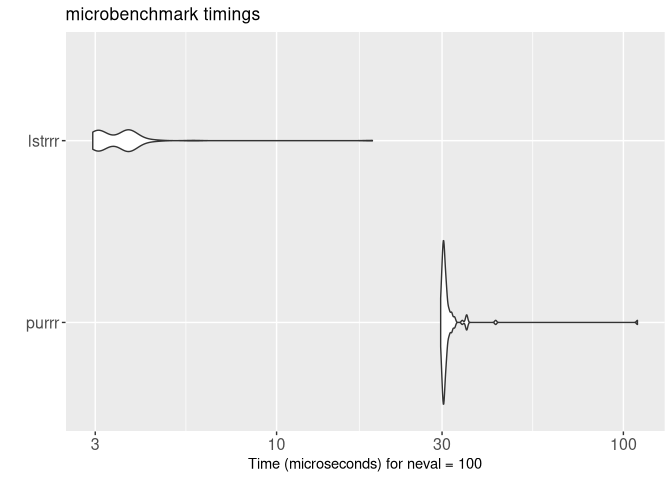
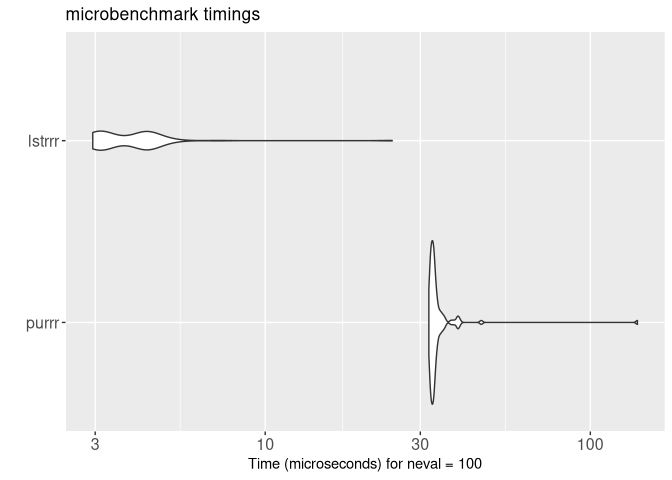
Update repo status

diff --git a/vignettes/benchmark_with_purrr.md b/vignettes/benchmark_with_purrr.md
@@ -1,4 +1,5 @@
     library(lstrrr)
+    data(sputnik_1)
 
 ## Map & Walk
 
@@ -28,27 +29,39 @@ difference of `lstrrr`.
     set.seed(123)
 
     bench_map <- microbenchmark::microbenchmark(
-      purrr = {
+      purrr_10 = {
         purrr::walk(files, \(x) slow_string_op(x))
       },
-      lstrrr = {
+      lstrrr_10 = {
         list_walk(files_list, \(x) slow_string_op(x))
+      },
+      purrr_50 = {
+        purrr::walk(files, \(x) slow_string_op(x, n = 50))
+      },
+      lstrrr_50 = {
+        list_walk(files_list, \(x) slow_string_op(x, n = 50))
+      },
+      purrr_100 = {
+        purrr::walk(files, \(x) slow_string_op(x, n = 100))
+      },
+      lstrrr_100 = {
+        list_walk(files_list, \(x) slow_string_op(x, n = 100))
       }
     )
     print(bench_map)
     #> Unit: milliseconds
-    #>    expr      min       lq     mean   median       uq       max neval
-    #>   purrr 2.987354 3.009674 3.079363 3.063402 3.141364  3.323898   100
-    #>  lstrrr 2.939991 2.973108 3.171761 3.025581 3.091127 16.854858   100
+    #>        expr       min        lq      mean    median        uq        max neval
+    #>    purrr_10  3.030297  3.091402  3.368821  3.112378  3.151750  15.287408   100
+    #>   lstrrr_10  2.953515  2.996233  3.025710  3.024970  3.047822   3.143753   100
+    #>    purrr_50 14.325471 14.485442 15.228383 14.598793 14.769506  27.229413   100
+    #>   lstrrr_50 14.233452 14.372943 15.108003 14.494130 14.615348  27.183190   100
+    #>   purrr_100 28.406875 28.751552 29.815807 28.959810 29.233874  41.509325   100
+    #>  lstrrr_100 28.361244 28.641291 31.515401 28.832363 29.113798 232.888763   100
 
     ggplot2::autoplot(bench_map) +
       ggplot2::theme(axis.text = ggplot2::element_text(size = 12))
 
 ![](benchmark_with_purrr_files/figure-markdown_strict/viz_map-1.png)
-
-I basically use C to implement the `map` like functions. However, the
-progress bar implemented on the C side cannot faithfully reproduce the
-progress bar from the `cli` package.
 
 ## Detect Depth
 
@@ -65,8 +78,8 @@ progress bar from the `cli` package.
     print(bench_depth)
     #> Unit: microseconds
     #>    expr      min       lq       mean    median       uq       max neval
-    #>   purrr 7211.146 7259.725 7563.13417 7298.2635 7569.488 12156.007   100
-    #>  lstrrr    4.101    4.871    7.40929    8.5975    9.328    17.065   100
+    #>   purrr 7296.421 7419.271 7837.80179 7711.7020 7784.662 12437.158   100
+    #>  lstrrr    4.046    4.935    7.86758    8.8935    9.759    17.014   100
 
     ggplot2::autoplot(bench_depth) +
       ggplot2::theme(axis.text = ggplot2::element_text(size = 12))
@@ -87,9 +100,9 @@ progress bar from the `cli` package.
     )
     print(bench_assign)
     #> Unit: microseconds
-    #>    expr    min      lq     mean median      uq     max neval
-    #>   purrr 29.723 30.2075 31.72399 30.426 30.9415 109.790   100
-    #>  lstrrr  2.951  3.0705  3.63453  3.618  3.7400  18.889   100
+    #>    expr    min     lq     mean  median      uq     max neval
+    #>   purrr 31.869 32.361 34.53122 32.8930 33.6135 139.616   100
+    #>  lstrrr  2.949  3.115  4.00796  3.8315  4.3260  24.577   100
 
     ggplot2::autoplot(bench_assign) +
       ggplot2::theme(axis.text = ggplot2::element_text(size = 12))
@@ -110,9 +123,9 @@ progress bar from the `cli` package.
     )
     print(bench_modify)
     #> Unit: microseconds
-    #>    expr    min      lq     mean median      uq     max neval
-    #>   purrr 51.567 52.0305 54.14667 52.428 53.2265 150.702   100
-    #>  lstrrr  2.743  2.8625  3.45416  3.390  3.5315  19.962   100
+    #>    expr    min     lq     mean median     uq     max neval
+    #>   purrr 54.518 55.319 58.06257 55.824 56.913 175.739   100
+    #>  lstrrr  2.663  2.873  3.67868  3.695  3.856  24.255   100
 
     ggplot2::autoplot(bench_modify) +
       ggplot2::theme(axis.text = ggplot2::element_text(size = 12))
@@ -133,9 +146,9 @@ progress bar from the `cli` package.
     )
     print(bench_flatten)
     #> Unit: microseconds
-    #>    expr      min       lq       mean   median       uq      max neval
-    #>   purrr 1969.057 2010.741 2076.15503 2045.040 2136.417 2393.772   100
-    #>  lstrrr   41.485   46.212   56.07211   61.771   64.064  116.909   100
+    #>    expr      min        lq       mean    median       uq      max neval
+    #>   purrr 2101.440 2134.5865 2262.35417 2160.6170 2217.020 8619.089   100
+    #>  lstrrr   42.156   48.9525   59.35466   64.0395   67.471  136.861   100
 
     ggplot2::autoplot(bench_flatten) +
       ggplot2::theme(axis.text = ggplot2::element_text(size = 12))
@@ -159,9 +172,9 @@ progress bar from the `cli` package.
     )
     print(bench_modify_list)
     #> Unit: microseconds
-    #>    expr      min       lq       mean   median       uq      max neval
-    #>   utils 1023.402 1030.880 1037.90338 1036.811 1040.970 1137.132   100
-    #>  lstrrr   27.387   28.599   31.99275   30.040   34.233   65.551   100
+    #>    expr      min        lq       mean   median        uq      max neval
+    #>   utils 1085.775 1115.3865 1185.65383 1140.528 1240.3135 1988.749   100
+    #>  lstrrr   27.497   29.1735   33.49651   31.573   37.2675   74.142   100
 
     ggplot2::autoplot(bench_modify_list) +
       ggplot2::theme(axis.text = ggplot2::element_text(size = 12))

diff --git a/README.md b/README.md
@@ -4,11 +4,14 @@
 
 <!-- badges: start -->
 
-[![Project-Status:WIP](https://www.repostatus.org/badges/latest/wip.svg)](https://www.repostatus.org/#wip)
-[![Lifecycle:experimental](https://img.shields.io/badge/lifecycle-experimental-orange.svg)](https://lifecycle.r-lib.org/articles/stages.html#experimental)
+[![Project-Status:Active](https://www.repostatus.org/badges/latest/active.svg)](https://www.repostatus.org/#active)
+[![Lifecycle:stable](https://img.shields.io/badge/lifecycle-stable-brightgreen.svg)](https://lifecycle.r-lib.org/articles/stages.html#stable)
 [![CRAN-status](https://www.r-pkg.org/badges/version/lstrrr)](https://CRAN.R-project.org/package=lstrrr)
+[![](https://img.shields.io/badge/devel%20version-0.1.0-blue.svg)](https://github.com/Exceret/lstrrr)
 [![R-CMD-check](https://github.com/Exceret/lstrrr/actions/workflows/R-CMD-check.yaml/badge.svg)](https://github.com/Exceret/lstrrr/actions/workflows/R-CMD-check.yaml)
 [![Codecov-test-coverage](https://codecov.io/gh/Exceret/lstrrr/graph/badge.svg)](https://app.codecov.io/gh/Exceret/lstrrr)
+[![Dependencies](https://tinyverse.netlify.app/badge/lstrrr)](https://cran.r-project.org/package=lstrrr)
+
 <!-- badges: end -->
 
 lstrrr provides functional programming tools for working with deeply
@@ -44,50 +47,32 @@ list_get(x, c("b", "y", "i"))
 #> [1] 3
 
 # Recursive mapping
-list_map(x, ~ .x * 2)
-#> $a
-#> [1] 2
-#> 
-#> $b
-#> $b$x
-#> [1] 4
-#> 
-#> $b$y
-#> $b$y$i
-#> [1] 6
-#> 
-#> $b$y$j
-#> [1] 8
+list_map(x, ~ .x * 2) |> str()
+#> List of 2
+#>  $ a: num 2
+#>  $ b:List of 2
+#>   ..$ x: num 4
+#>   ..$ y:List of 2
+#>   .. ..$ i: num 6
+#>   .. ..$ j: num 8
 
 # Flatten with path names
-list_flatten(x)
-#> $a
-#> [1] 1
-#> 
-#> $b.x
-#> [1] 2
-#> 
-#> $b.y.i
-#> [1] 3
-#> 
-#> $b.y.j
-#> [1] 4
+list_flatten(x) |> str()
+#> List of 4
+#>  $ a    : num 1
+#>  $ b.x  : num 2
+#>  $ b.y.i: num 3
+#>  $ b.y.j: num 4
 
 # Conditional modification (only values > 2)
-list_modify_if(x, ~ is.numeric(.x) && .x > 2, ~ .x * 10)
-#> $a
-#> [1] 1
-#> 
-#> $b
-#> $b$x
-#> [1] 2
-#> 
-#> $b$y
-#> $b$y$i
-#> [1] 30
-#> 
-#> $b$y$j
-#> [1] 40
+list_modify_if(x, ~ is.numeric(.x) && .x > 2, ~ .x * 10) |> str()
+#> List of 2
+#>  $ a: num 1
+#>  $ b:List of 2
+#>   ..$ x: num 2
+#>   ..$ y:List of 2
+#>   .. ..$ i: num 30
+#>   .. ..$ j: num 40
 
 # Tree visualization (requires ggplot2)
 # viz_list(x)
@@ -103,33 +88,23 @@ Let’s see how they work differently. This is a code snippet from rlist:
 ``` r
 nums <- list(a = c(1, 2, 3), b = c(2, 3, 4), c = c(3, 4, 5))
 
-rlist::list.map(nums, c(min = min(.), max = max(.)))
-#> $a
-#> min max 
-#>   1   3 
-#> 
-#> $b
-#> min max 
-#>   2   4 
-#> 
-#> $c
-#> min max 
-#>   3   5
-rlist::list.filter(nums, x ~ mean(x) >= 3)
-#> $b
-#> [1] 2 3 4
-#> 
-#> $c
-#> [1] 3 4 5
-rlist::list.map(nums, f(x, i) ~ sum(x, i))
-#> $a
-#> [1] 7
-#> 
-#> $b
-#> [1] 11
-#> 
-#> $c
-#> [1] 15
+rlist::list.map(nums, c(min = min(.), max = max(.))) |> str()
+#> List of 3
+#>  $ a: Named num [1:2] 1 3
+#>   ..- attr(*, "names")= chr [1:2] "min" "max"
+#>  $ b: Named num [1:2] 2 4
+#>   ..- attr(*, "names")= chr [1:2] "min" "max"
+#>  $ c: Named num [1:2] 3 5
+#>   ..- attr(*, "names")= chr [1:2] "min" "max"
+rlist::list.filter(nums, x ~ mean(x) >= 3) |> str()
+#> List of 2
+#>  $ b: num [1:3] 2 3 4
+#>  $ c: num [1:3] 3 4 5
+rlist::list.map(nums, f(x, i) ~ sum(x, i)) |> str()
+#> List of 3
+#>  $ a: num 7
+#>  $ b: num 11
+#>  $ c: num 15
 ```
 
 If `nums` becomes a complex nested list, rlist may not work as expected.
@@ -163,53 +138,31 @@ lstrrr views the list as a tree, and recursively applies the function to
 leaf nodes.
 
 ``` r
-list_map(nums, \(v) c(min = min(v), max = max(v)))
-#> $a
-#> min max 
-#>   1   3 
-#> 
-#> $b
-#> min max 
-#>   2   4 
-#> 
-#> $c
-#> min max 
-#>   3   5 
-#> 
-#> $d
-#> $d$e
-#> min max 
-#>   4   6 
-#> 
-#> $d$f
-#> min max 
-#>   5   7
-list_find(nums, ~ mean(.x) >= 3)
-#> $b
-#> [1] 2 3 4
-#> 
-#> $c
-#> [1] 3 4 5
-#> 
-#> $d.e
-#> [1] 4 5 6
-#> 
-#> $d.f
-#> [1] 5 6 7
-list_map(nums, sum)
-#> $a
-#> [1] 6
-#> 
-#> $b
-#> [1] 9
-#> 
-#> $c
-#> [1] 12
-#> 
-#> $d
-#> $d$e
-#> [1] 15
-#> 
-#> $d$f
-#> [1] 18
+list_map(nums, \(v) c(min = min(v), max = max(v))) |> str()
+#> List of 4
+#>  $ a: Named num [1:2] 1 3
+#>   ..- attr(*, "names")= chr [1:2] "min" "max"
+#>  $ b: Named num [1:2] 2 4
+#>   ..- attr(*, "names")= chr [1:2] "min" "max"
+#>  $ c: Named num [1:2] 3 5
+#>   ..- attr(*, "names")= chr [1:2] "min" "max"
+#>  $ d:List of 2
+#>   ..$ e: Named num [1:2] 4 6
+#>   .. ..- attr(*, "names")= chr [1:2] "min" "max"
+#>   ..$ f: Named num [1:2] 5 7
+#>   .. ..- attr(*, "names")= chr [1:2] "min" "max"
+list_find(nums, ~ mean(.x) >= 3) |> str()
+#> List of 4
+#>  $ b  : num [1:3] 2 3 4
+#>  $ c  : num [1:3] 3 4 5
+#>  $ d.e: num [1:3] 4 5 6
+#>  $ d.f: num [1:3] 5 6 7
+list_map(nums, sum) |> str()
+#> List of 4
+#>  $ a: num 6
+#>  $ b: num 9
+#>  $ c: num 12
+#>  $ d:List of 2
+#>   ..$ e: num 15
+#>   ..$ f: num 18
 ```
